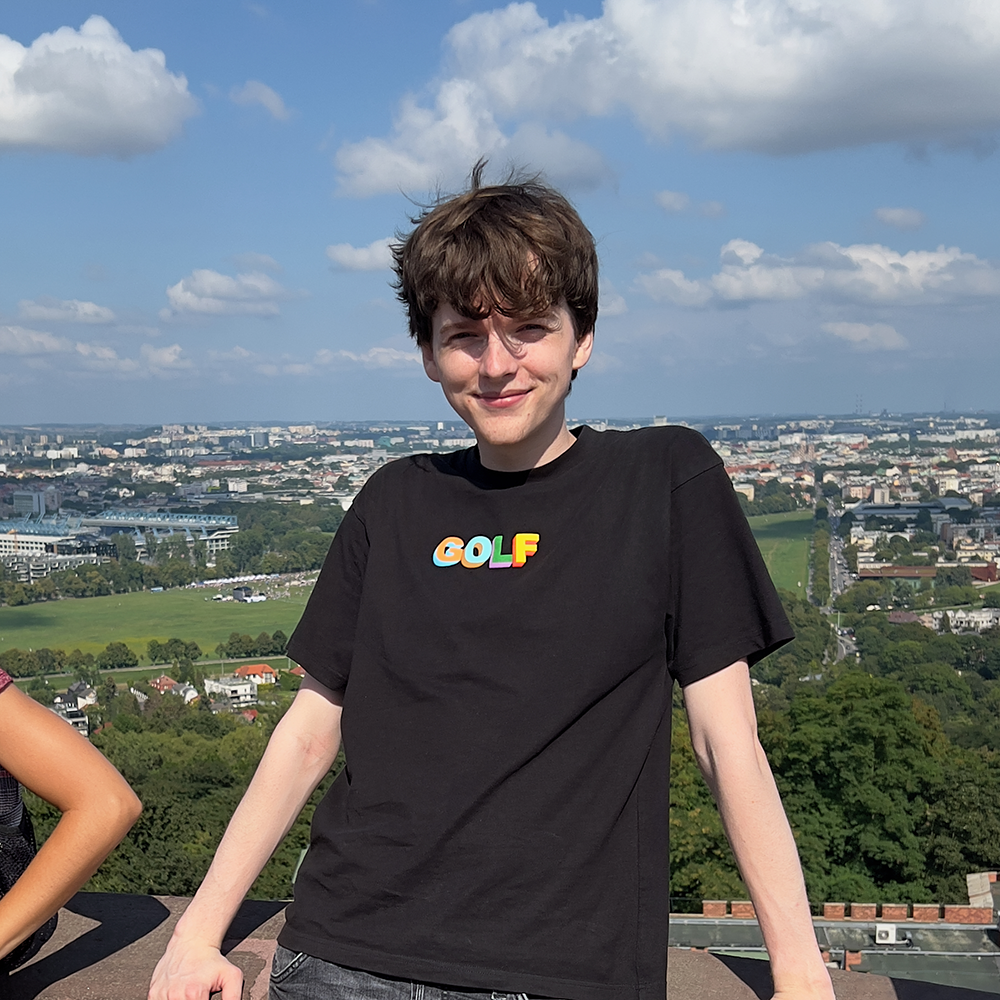
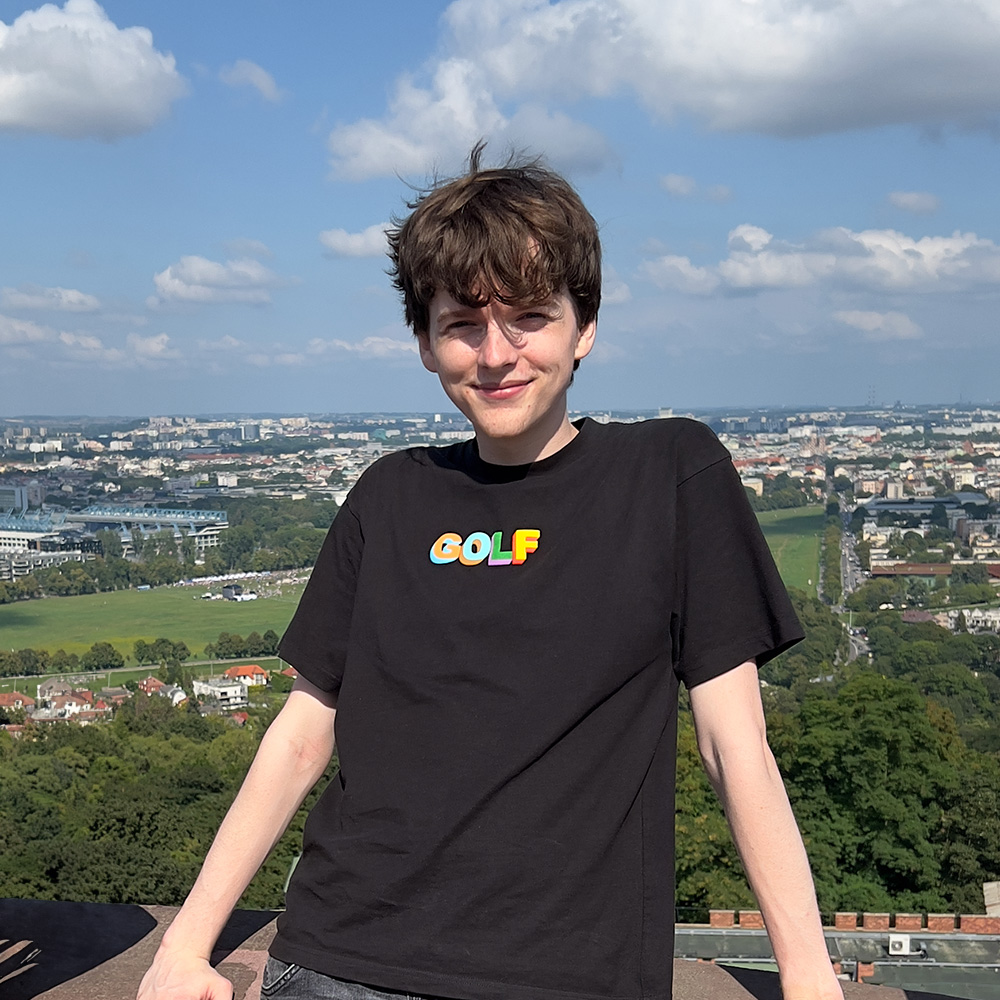
small changes

diff --git a/portfolio.html b/portfolio.html
@@ -46,6 +46,12 @@
 		</header>
 		<main id="portfolio">
 			<section>
+				<h1>Tweakers</h1>
+				<p>Internship UX team</p>
+				<p id="br">Feb 2024 - Present</p>
+				<a href="https://tweakers.net/" target="_blank" title="Link to Tweakers website">Visit Website</a>
+			</section>
+			<section>
 				<h1>MDD</h1>
 				<p>Individual project</p>
 				<p id="br">Oct 2023</p>
